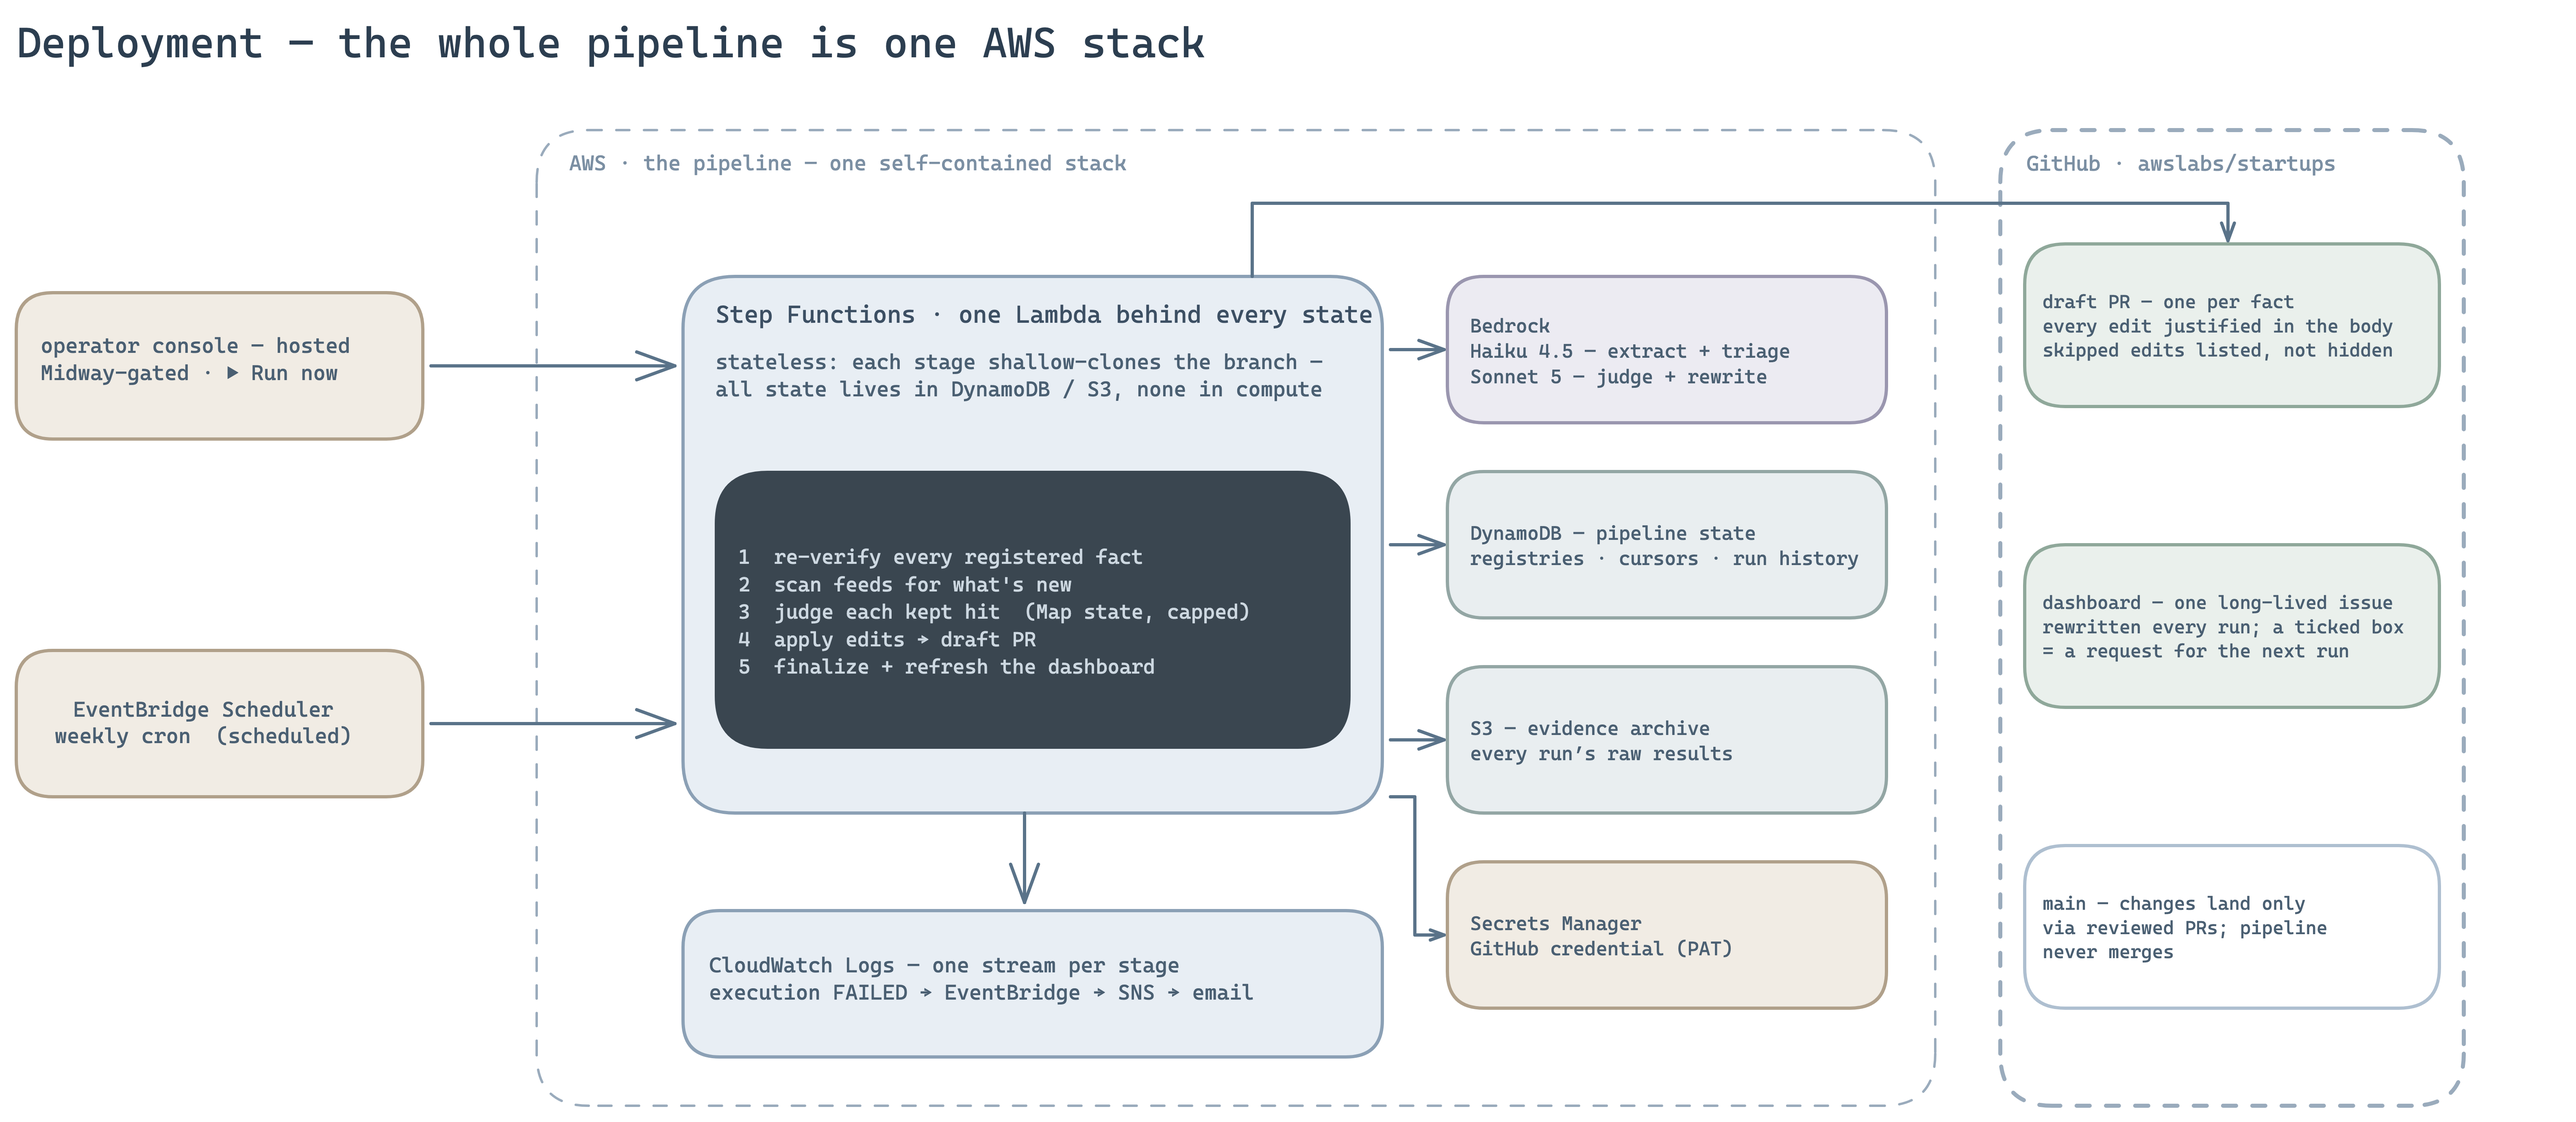
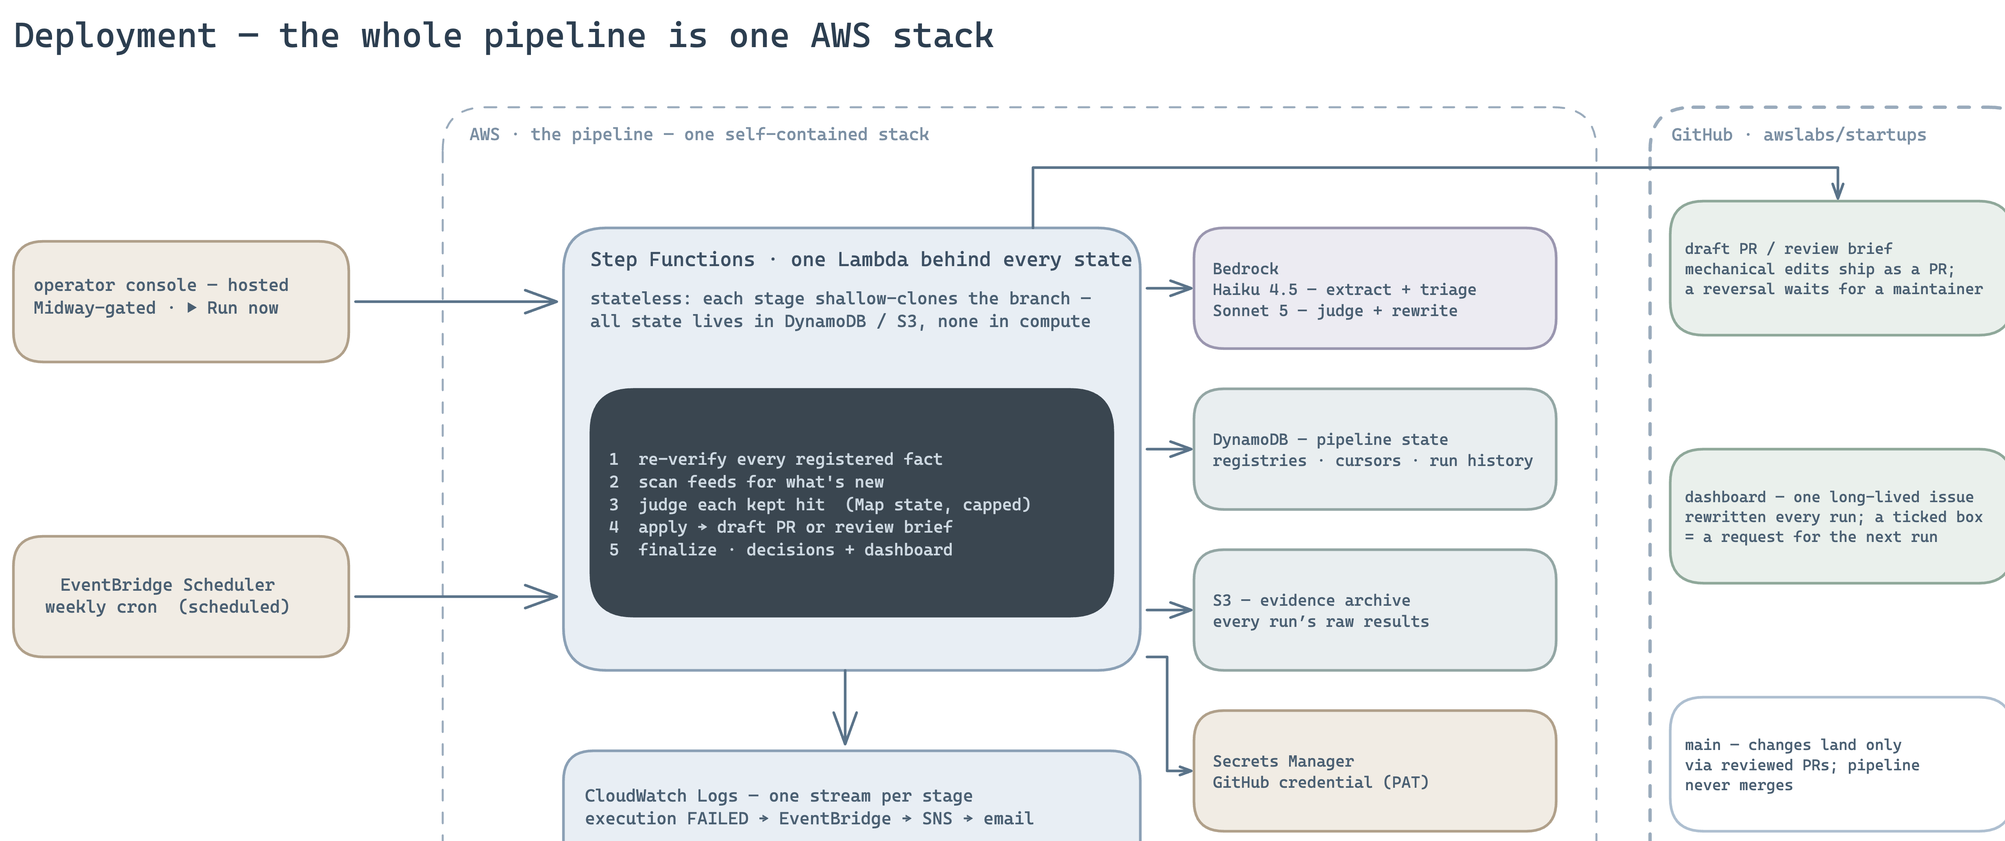
docs(kb-autoupdate): §2 lead-in, plain-language AI/code boundary, review brief in both diagrams; drop failure-modes section

diff --git a/migrate/docs/kb-autoupdate-review.md b/migrate/docs/kb-autoupdate-review.md
@@ -27,7 +27,10 @@ followed the skill's recommendation.
 
 ## 2. System architecture
 
-Four layers. Each is independently extensible.
+The system watches the outside world on the skill's behalf: it re-verifies what the skill
+already claims, discovers announcements that contradict it, judges what each change means,
+and turns every verdict into a reviewable artifact. That work divides into four layers, each
+independently extensible.
 
 ![Four-layer architecture: Ingestion, Registry & Evidence, Orchestration & Judgment, Actions — with each layer's extension point](../kb-autoupdate-poc/diagrams/kb-layers.png)
 
@@ -95,16 +98,16 @@ click — which is why it needs no API and no auth layer. The failure alert (SNS
 exists because a quiet week and a dead pipeline must look different. New actions — notify a
 channel, regenerate a doc, target another repo — plug in without touching layers 1–3.
 
-**Where AI ends and code begins.** The pipeline itself is deterministic; models appear at
-exactly nine points, each a narrow question under a forced JSON schema (all nine prompts
-are in the appendix, verbatim). A model never triggers an action — every answer passes a code
-gate before it has any effect: the magnitude guard, the pin, the single-location rule for
-auto-edits, the judge cap, the before-text check. The alternative — agents with tool loops —
-buys flexibility at the cost of unpredictable spend and prompt-managed boundaries; here,
-specialization lives in pipeline stages instead, so cost has a computable ceiling, every
-judgment point is unit-testable in isolation, and the one case that genuinely needs extra
-evidence (a re-verification that disagrees) is covered by a fixed second-opinion call rather
-than a loop.
+**Where AI ends and code begins.** This is a fixed pipeline, not an agent. A model is
+consulted at exactly nine points, and every consultation has the same shape: code asks one
+narrow question, the model must answer in a fixed JSON format, and code checks the answer
+before it is allowed to do anything (is the quoted evidence really in the announcement? is
+the price change within a plausible range? is the text to be replaced actually in the file?).
+The model never decides what happens next — code does, and all nine questions are printed
+verbatim in the appendix. We chose this over a tool-using agent deliberately: a fixed
+pipeline has a cost ceiling you can compute, each of the nine judgment points can be tested
+on its own, and when something goes wrong the failure is visible at a specific step instead
+of buried inside an agent's loop.
 
 **The human stays in charge.** Nothing merges without review, and nothing reversed is even
 _drafted_ without a maintainer's position. A rejected conclusion is recorded as a _pin_ on the
@@ -156,45 +159,6 @@ PRs; the pipeline never merges. The POC has so far run against a maintainer's fo
 fine-grained to the fork, returning 403 anywhere else _by construction_. Retargeting the real
 repo is a two-parameter change plus an org-scoped token (§5.2).
 
-### Failure modes observed
-
-Live operation also produced negative evidence: fifteen real defects that no dry run would
-have surfaced. Six changed the design; reviewers should know them because they generalize to
-any LLM-operated pipeline:
-
-1. **A confident wrong answer beats no answer.** The model once returned an array as a
-   comma-joined string; iterating it yielded single characters, all filtered as "too short",
-   producing a plausible "0 affected locations" with no error anywhere. Structured output on
-   Bedrock now goes through a payload-coercion layer, and silent-empty results are treated as
-   suspect.
-2. **Fluent prose over unchanged behaviour.** One proposed edit rewrote a rule's human-readable
-   `reason` string perfectly while leaving the machine-read rule untouched — invisible in a
-   diff review. Measured rate: 1 in 13 edits. This is the one failure class where human review
-   demonstrably does not protect, so structured files get a mechanical completeness check.
-3. **The guards must not trust the model.** A per-second price compared against a per-hour
-   record was one lucky conversion away from auto-writing a 3600× wrong price. The ≥10×
-   magnitude guard is code, not prompt.
-4. **A state label must mean what it says.** "Seen" originally meant *fetched*: an
-   announcement deferred by the per-run judge cap was already marked seen, so it silently never
-   returned — found by a team member's ad-hoc test, not by us. "Seen" now means *handled*
-   (marked only after a successful judge), which makes every failure path retry for free.
-5. **A silent guard hides a dead feature.** The configuration pane's event wiring sat behind an
-   `if (element exists)` guard — the element didn't exist yet at script time, so every control
-   on that pane had never worked, and nothing said so. Worse, fixing the wiring exposed a lossy
-   save path that stripped each fact to its visible columns, deleting a load-bearing pin. Two
-   stacked defects, each masking the other; the fix round-trips the full record and the repair
-   came from committed sources of truth.
-6. **A silent fallback makes success indistinguishable from a no-op.** The state store falls
-   back from DynamoDB to a local file when its table variable is unset. Operator scripts used
-   it to reset the demo environment: every write succeeded and every read-back agreed — against
-   the wrong backend, while the cloud state never changed and the next run behaved as if
-   nothing had been done. Read-back through the same path proves nothing; the operator scripts
-   now assert the backend before writing, and a first-class guard in the state module is queued.
-
-Also measured and worth stating plainly: blast radius is not stable between runs (9 vs 13
-locations on identical input, neither a superset). A single judge pass under-reports; the PR
-says so on its face rather than pretending completeness.
-
 ## 4. Limits and open risks
 
 - **One week of live data.** False-negative rate (relevant announcements dropped) is unknowable
@@ -202,7 +166,8 @@ says so on its face rather than pretending completeness.
 - **Locate-instruction durability** across real page redesigns is untested — only calendar time
   tests it.
 - **Review burden** is partially measured: 13 proposed edits in one PR was reviewable, and the
-  one subtle defect (failure mode 2 in §3) was caught only by reading beyond the diff.
+  one subtle defect observed — a fluent rewrite of a human-readable reason string that left
+  the machine-read rule untouched — was caught only by reading beyond the diff.
 - **Auto-merge is not proposed and auto-PR for value changes stays off** until several silent
   weeks have measured the false-positive rate.
 - The `url-watch` adapter is new: its segmentation is verified against today's page
